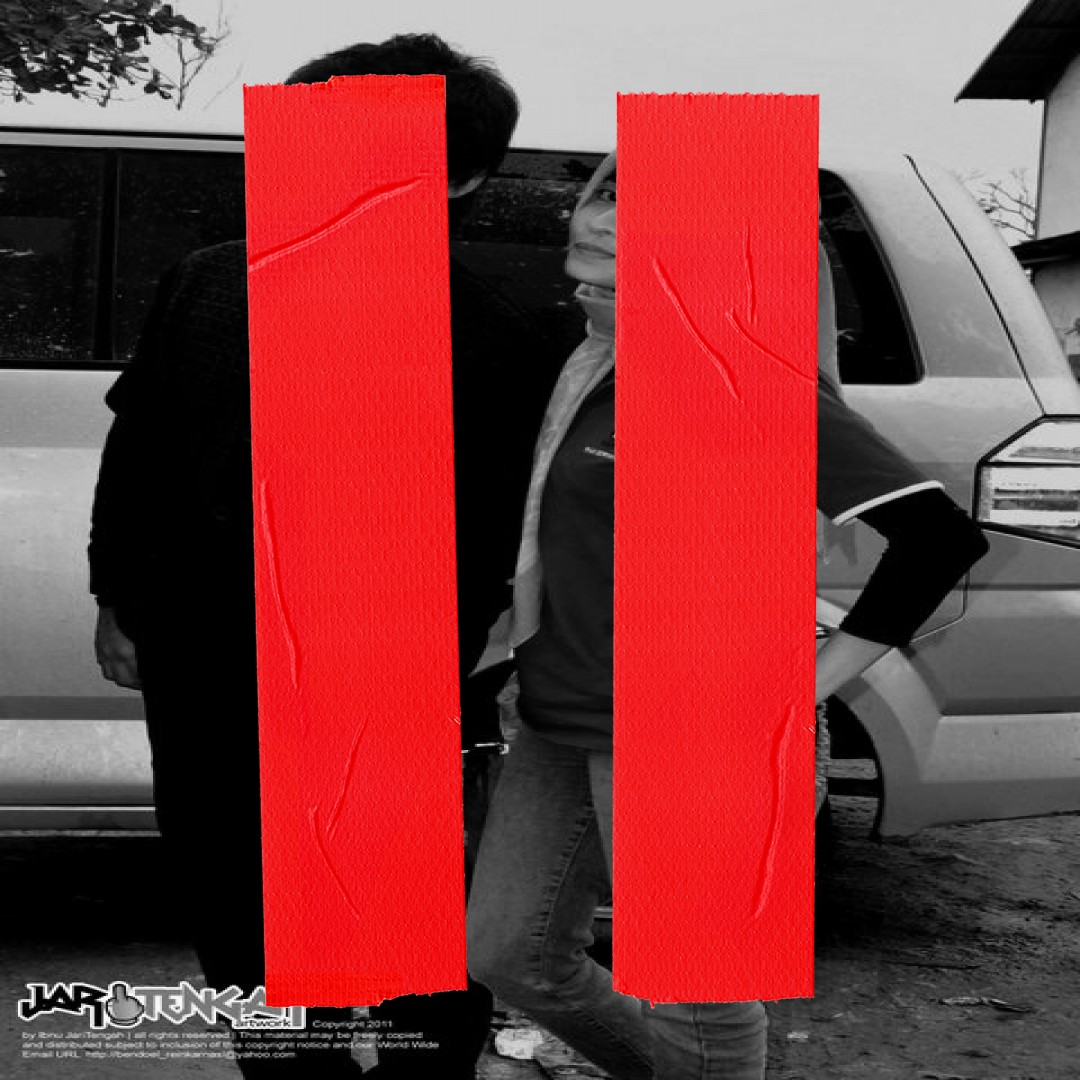
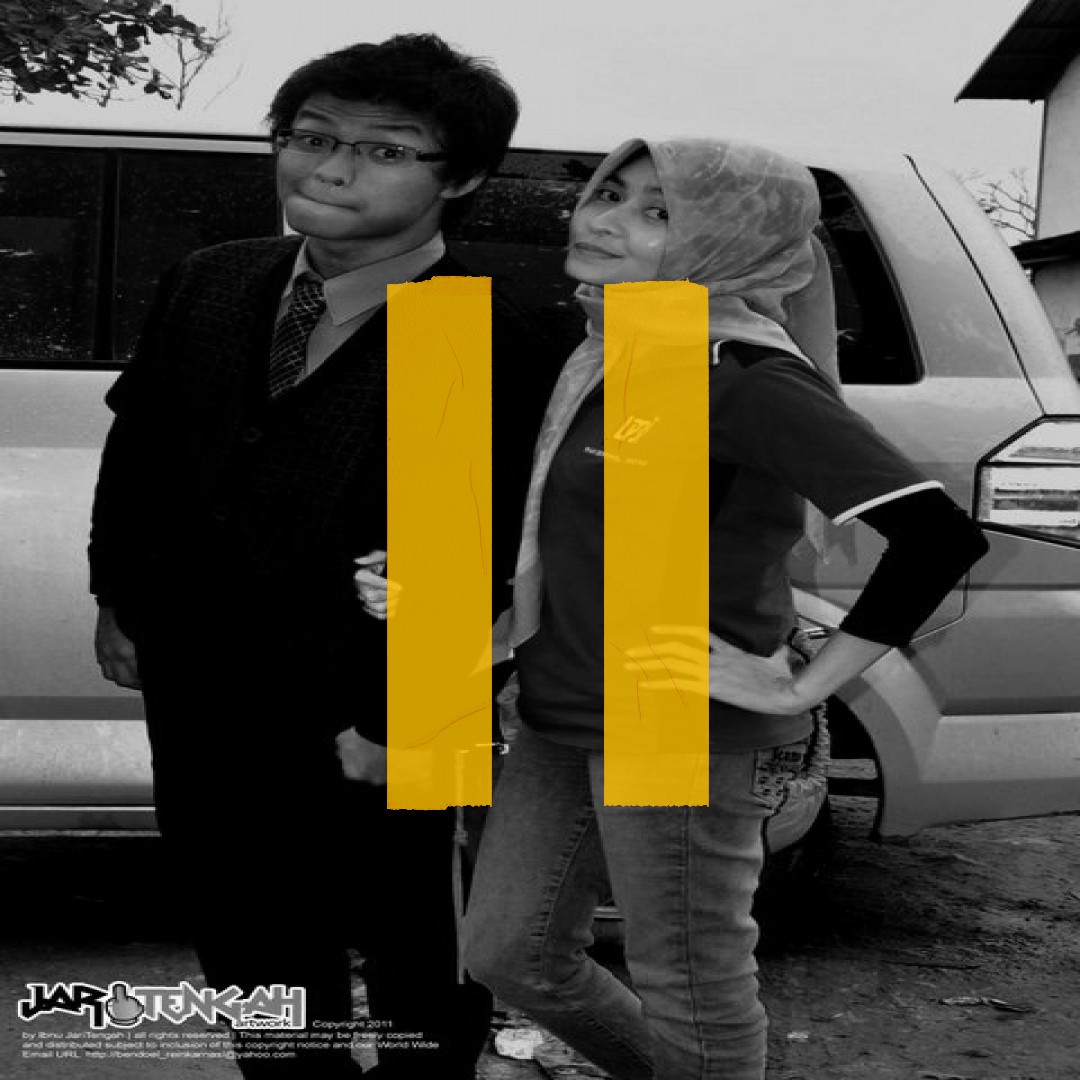
bug fixing

diff --git a/public/frontend/css/custom.css b/public/frontend/css/custom.css
@@ -26,3 +26,6 @@
 .mr-3 {
 	margin-right: 2.5rem;
 }
+.custom-header-font{
+	font-size: 11px !important;
+}

diff --git a/resources/views/frontend-page/modal.blade.php b/resources/views/frontend-page/modal.blade.php
@@ -16,11 +16,11 @@
                         </div>
                         <div class="form-group">
                             <label for="">@lang('modal.register.columns.email')</label>
-                            <input type="email" name="email" class="form-control" placeholder="robyyoibanget@email.com">
+                            <input type="email" name="email"  id="register-email" class="form-control" placeholder="robyyoibanget@email.com">
                         </div>
                         <div class="form-group">
                             <label for="">@lang('modal.register.columns.phone')</label>
-                            <input type="text" name="phone" class="form-control" placeholder="081377788899">
+                            <input type="text" name="phone" id="register-phone" class="form-control" placeholder="081377788899">
                         </div>
                         <div class="form-group">
                             <label for="">@lang('modal.register.columns.address')</label>
@@ -353,7 +353,8 @@
                             $('#error-login').html(data.message)
                             break;
                         case "Limit":
-                            console.log(data)
+                            $('#modal-masuk').modal('hide')
+                            $('#modal-error').modal('show')
                             break;
                         case "Success":
                             $(location).attr("href", data.intended);
@@ -475,7 +476,6 @@
             }
         },
         errorPlacement: function (error, element) {
-            console.log(error)
             if (element.attr("name") == 'image') {
                 $('#error-image-required').text('Foto Wajib diisi (*.jpeg / *.jpg / *.png)');
             } else {
@@ -501,10 +501,12 @@
                     $(".gas").show();
                     switch (data.status) {
                         case "Failed":
+                            Object.keys(data.errors).forEach(function(key) {
+                                $('#register-'+key).attr('id', 'input-required');
+                            });
                             $('#error-login').html(data.message)
                             break;
                         case "Limit":
-                            console.log(data)
                             break;
                         case "Success":
                             $(location).attr("href", data.intended + '?openmodal=1');
@@ -516,6 +518,7 @@
             });
         }
     });
+
     function chooseFile() {
         document.getElementById("fileInput").click();
     }

diff --git a/resources/views/frontend-page/navbar.blade.php b/resources/views/frontend-page/navbar.blade.php
@@ -7,18 +7,18 @@
                     <i class="span-bar"></i>
                     </a>
                 </li>
-                <li><a href="{!!Route('change.language','id')!!}">@lang('header.lang.bahasa')</a></li>
-                <li><a href="{!!Route('change.language','en')!!}">@lang('header.lang.english')</a></li>
-                <li><a href="{!!Route('change.language','ar')!!}">@lang('header.lang.arab')</a></li>
+                <li><a class="custom-header-font"  href="{!!Route('change.language','id')!!}">@lang('header.lang.bahasa')</a></li>
+                <li><a class="custom-header-font"  href="{!!Route('change.language','en')!!}">@lang('header.lang.english')</a></li>
+                <li><a class="custom-header-font"  href="{!!Route('change.language','ar')!!}">@lang('header.lang.arab')</a></li>
             </ul> 
             <ul class="nav navbar-nav navbar-right hidden-xs">
                 @guest('account')
-                <li><a href="#" data-toggle="modal" data-target="#modal-daftar">@lang('header.register')</a></li>
-                <li><a href="#" data-toggle="modal" data-target="#modal-masuk">@lang('header.login')</a></li>
+                <li><a class="custom-header-font"  href="#" data-toggle="modal" data-target="#modal-daftar">@lang('header.register')</a></li>
+                <li><a class="custom-header-font"  href="#" data-toggle="modal" data-target="#modal-masuk">@lang('header.login')</a></li>
                 @endguest
                 @auth('account')
-                    <li><a href="{{ Route('member.nif') }}">@lang('header.nif')</a></li>
-                    <li><a href="{{ Route('member.logout') }}">@lang('header.logout')</a></li>
+                    <li><a class="custom-header-font"  href="{{ Route('member.nif') }}">@lang('header.nif')</a></li>
+                    <li><a class="custom-header-font"  href="{{ Route('member.logout') }}">@lang('header.logout')</a></li>
                 @endauth
             </ul>
                 <div class="navbar-header visible-xs">

diff --git a/database/seeds/TracklistTableSeeder.php b/database/seeds/TracklistTableSeeder.php
@@ -29,7 +29,7 @@ class TracklistTableSeeder extends Seeder
                 'status' => 'disabled',
             ],
             [
-                'name' => 'Vegas',
+                'name' => 'Mesin',
                 'release_date' => '25/04/2019',
                 'content' => '',
                 'preview' => '',
@@ -43,36 +43,36 @@ class TracklistTableSeeder extends Seeder
                 'status' => 'disabled',
             ],
             [
-                'name' => 'Agama',
-                'release_date' => '',
-                'content' => '',
-                'preview' => '',
-                'status' => 'disabled',
-            ],
-            [
                 'name' => 'Syarat',
-                'release_date' => '',
+                'release_date' => '../../2019',
                 'content' => '',
                 'preview' => '',
                 'status' => 'disabled',
             ],
             [
-                'name' => 'Telan',
-                'release_date' => '',
+                'name' => 'telan',
+                'release_date' => '../../2019',
                 'content' => '',
                 'preview' => '',
                 'status' => 'disabled',
             ],
             [
-                'name' => 'Opus',
-                'release_date' => '',
+                'name' => 'Hayat',
+                'release_date' => '../../2019',
                 'content' => '',
                 'preview' => '',
                 'status' => 'disabled',
             ],
             [
                 'name' => 'Kamis',
-                'release_date' => '',
+                'release_date' => 'Hanya di CD',
+                'content' => '',
+                'preview' => '',
+                'status' => 'disabled',
+            ],
+            [
+                'name' => 'Opus',
+                'release_date' => 'Hanya di CD',
                 'content' => '',
                 'preview' => '',
                 'status' => 'disabled',

diff --git a/app/Http/Controllers/Auth/MemberLoginController.php b/app/Http/Controllers/Auth/MemberLoginController.php
@@ -28,8 +28,9 @@ class MemberLoginController extends Controller
      * @var string
      */
 
-    protected $maxAttempts = 4;
+    protected $maxAttempts = 3;
     protected $decayMinutes = 1;
+
 
     public function __construct()
     {
@@ -46,6 +47,22 @@ class MemberLoginController extends Controller
         request()->merge([$fieldName => $identity]);
         return $fieldName;
     }
+
+        /**
+     * Determine if the user has too many failed login attempts.
+     *
+     * @param  \Illuminate\Http\Request  $request
+     * @return bool
+     */
+    protected function hasTooManyLoginAttempts(Request $request)
+    {
+      $attempts = 2;
+      $lockoutMinites = 1;
+      return $this->limiter()->tooManyAttempts(
+          $this->throttleKey($request), $attempts, $lockoutMinites
+      );
+    }
+
     public function loginMember(Request $request)
     {
       // Validate the form data
@@ -66,12 +83,14 @@ class MemberLoginController extends Controller
 
         return $this->sendLockoutResponse($request);
     } 
+
     $field = filter_var($request->email, FILTER_VALIDATE_EMAIL) ? 'email' : 'id';
     $request->merge([$field => $request->email]);
     
       // Attempt to log the user in
       if (Auth::guard('account')->attempt($request->only($field, 'password'))) {
         // if successful, then redirect to their intended location
+         $this->clearLoginAttempts($request);
 		   if ($request->ajax()) {
 		        return response()->json([
 		        	'status'=>'Success',
@@ -80,6 +99,7 @@ class MemberLoginController extends Controller
 		    } 
 		        return redirect()->intended(URL::route('home'));
       }
+      $this->incrementLoginAttempts($request);
       // if unsuccessful, then redirect back to the login with the form data
       if ($request->ajax()) {
             return response()->json([

diff --git a/app/Http/Controllers/Auth/MemberRegisterController.php b/app/Http/Controllers/Auth/MemberRegisterController.php
@@ -16,10 +16,11 @@ class MemberRegisterController extends Controller
     
     public function register(Request $request)  {   
     	$file = $request->file('image');
-   		
+   		$mask = array("red","yellow");
    		$destinationPath = 'uploads';
    		$filePath = $destinationPath.'/'.$file->getClientOriginalName();
-    	$fileimage = Image::make($file)->greyscale()->resize(1080, 1080)->insert('images/mask-strip.png','center')->save($destinationPath.'/'.$file->getClientOriginalName());
+        $masking= array_rand($mask,1);
+    	$fileimage = Image::make($file)->greyscale()->resize(1080, 1080)->insert('images/image-masking-'.$mask[$masking].'.png','center')->save($destinationPath.'/'.$file->getClientOriginalName());
 	   $s3 = \Storage::disk('s3');
        $s3->put($filePath, $fileimage,'public');
     	$request->request->add(['images' =>$filePath ]);

diff --git a/resources/lang/ar/boxset.php b/resources/lang/ar/boxset.php
@@ -17,6 +17,6 @@ return [
     'open_pre_order'=>'فرا- فسن دىبوكا',
     'closed_pre_order' => 'فرا- فسن ديتوتوب',
     'description'=>'ألبوم إيني دي فاساركان دالم ببارافا إيديسي بوكسيت برإيسي سربا أنيكا چندراماتا يڠ دفات كامو ميليكي سآفاكيت أتو فيليه إيچيران. مميليكي بوكسيت دالم ألبوم ف . س . ت . ف . ل . س . ت  ٢ بوكن هاپا برأرتي كامو تله مندوكوڠ كامي، تافي جوڬا ممفرچاياكن سآفوتوڠ كآچيل داري چيتا-چيتا بسار مو فدا كامي.',
-    'edition'=>'عديثي ٠١',
+    'edition'=>'عديثي ١',
 
 ];

diff --git a/resources/lang/ar/index.php b/resources/lang/ar/index.php
@@ -14,7 +14,7 @@ return [
     */
     'local' => 'عراب',
     'left'=>[
-        'heading' => 'ف . س . ت . ف . ل . س . ت  ٢',
+        'heading' => 'ف  س  ت  ف  ل  س  ت  ٢',
         'tracklist' => 'دفتار لاڬو:',
         'playing' => ':مآماهينكان',
         'download' => 'أوندوه',
